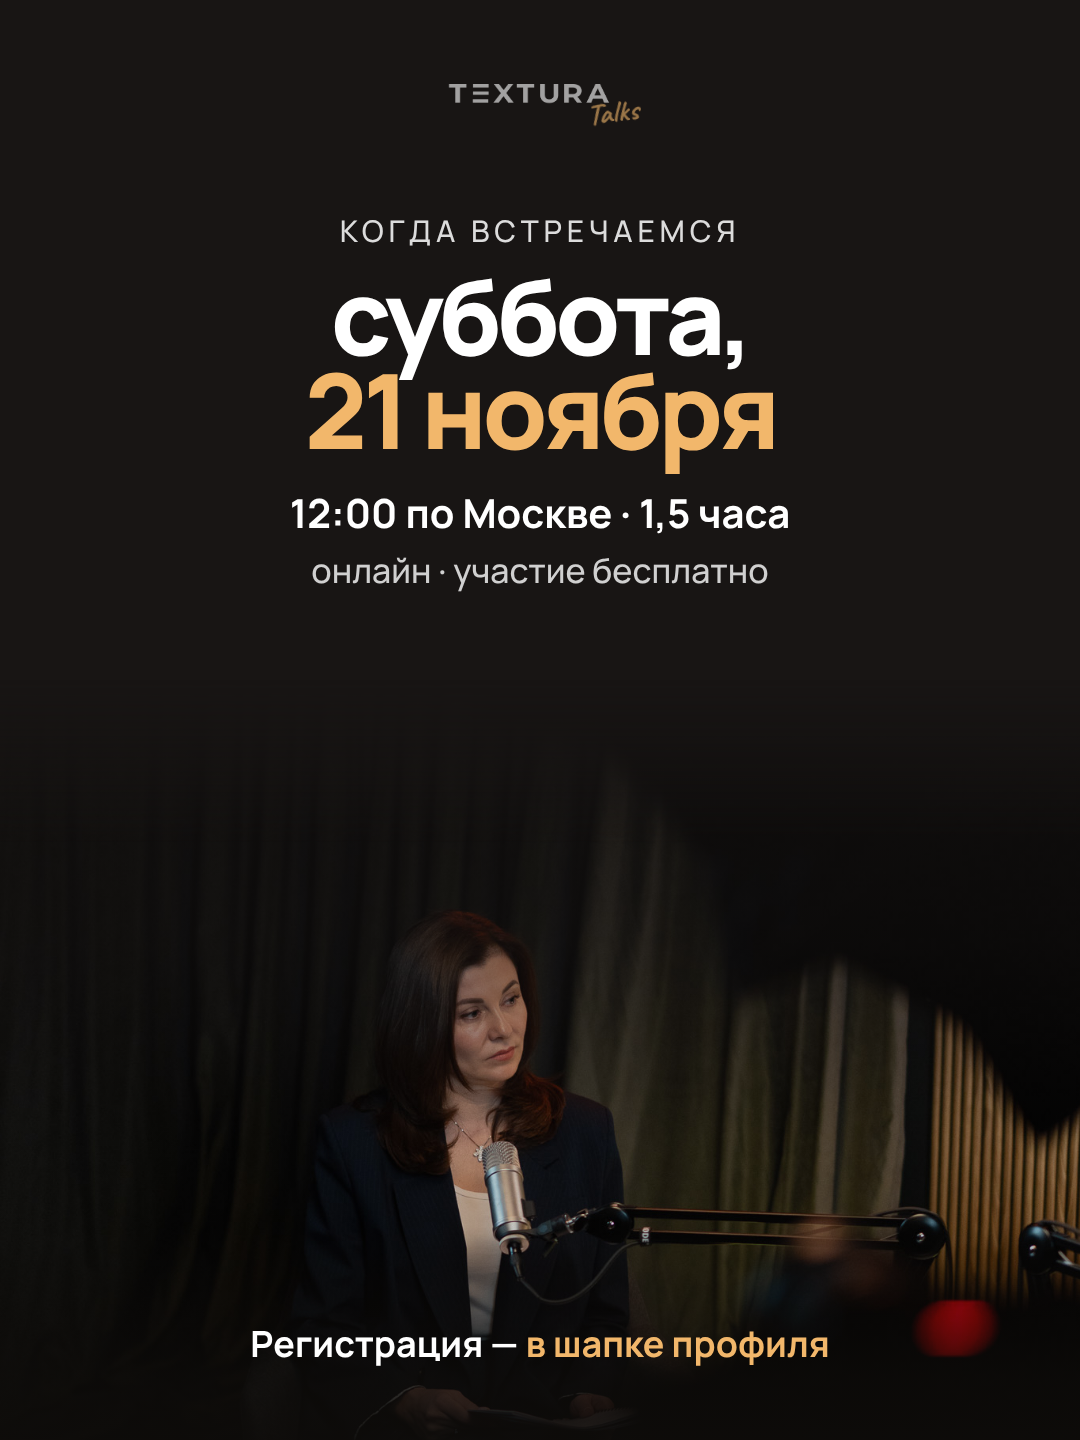
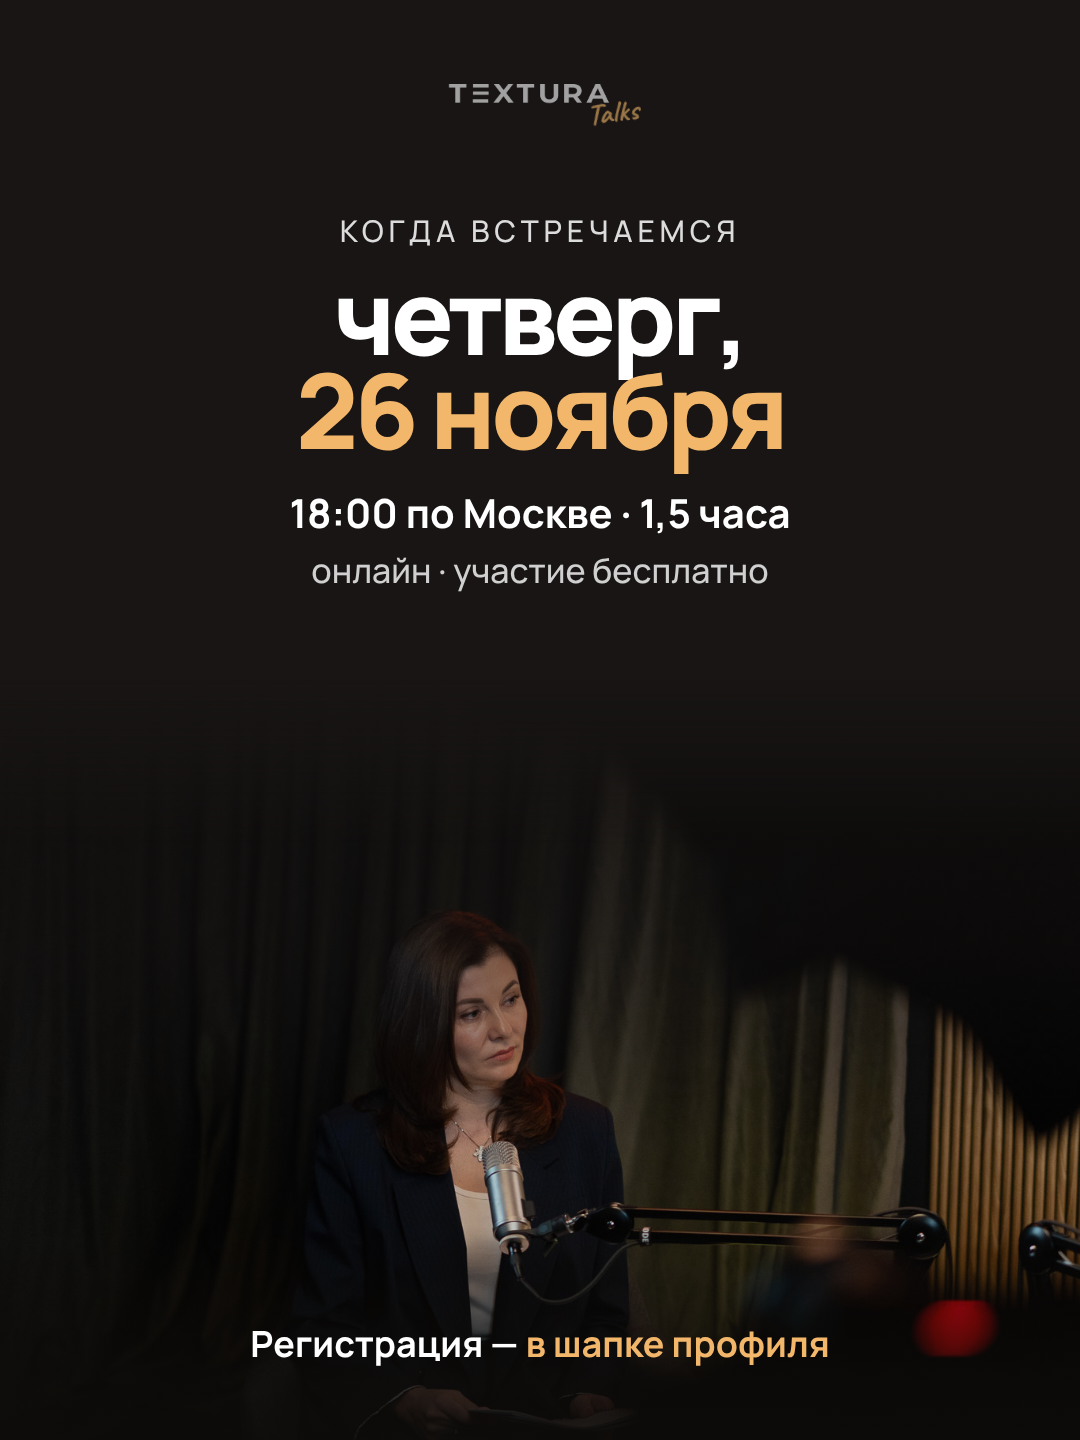
Workshop carousel: new date 26 Nov 18:00 MSK
Claude-Session: https://claude.ai/code/session_01EUhV7va23MNh7ydDpeuyX7

diff --git a/textura-carousel/workshop.html b/textura-carousel/workshop.html
@@ -160,7 +160,7 @@
   <div style="position:absolute; left:0; right:0; top:330px; height:1110px; z-index:2; background:url(photos/pol-sit.jpg) 50% 18%/1080px auto no-repeat; -webkit-mask-image:linear-gradient(180deg,transparent 0%,#000 22%); mask-image:linear-gradient(180deg,transparent 0%,#000 22%);"></div>
   <div style="position:absolute; left:0; right:0; bottom:0; height:560px; z-index:2; background:linear-gradient(180deg, rgba(14,12,10,0) 0%, rgba(14,12,10,.6) 45%, rgba(14,12,10,.95) 100%);"></div>
   <div style="position:absolute; left:0; right:0; bottom:170px; z-index:3; text-align:center; font-weight:800; font-size:72px; line-height:.98; letter-spacing:-.045em; text-shadow:0 2px 20px rgba(0,0,0,.5);">чтобы слушали<br><span style="color:var(--accent);">и&nbsp;покупали</span></div>
-  <div style="position:absolute; left:0; right:0; bottom:72px; z-index:3; text-align:center; font-weight:700; font-size:36px; color:#fff;">Суббота, 21 ноября · <span style="color:var(--accent);">12:00 МСК</span></div>
+  <div style="position:absolute; left:0; right:0; bottom:72px; z-index:3; text-align:center; font-weight:700; font-size:36px; color:#fff;">Четверг, 26 ноября · <span style="color:var(--accent);">18:00 МСК</span></div>
 </section>
 <section class="slide m"><div class="ph" style="top:600px; background-image:url(photos/w-listen.jpg); background-position:50% 45%;"></div><div class="mlogo"><div><img src="photos/textura-logo.png" alt="TEXTURA"><span>Talks</span></div></div>
 <div class="body"><div class="lbl">Знакомо?</div>
@@ -196,13 +196,13 @@
 <div class="stats"><div><b>500+</b><span>спикеров обучено<br>за&nbsp;5&nbsp;лет</span></div><div><b>30+</b><span>тренингов<br>и&nbsp;программ</span></div><div><b>3&nbsp;года</b><span>в&nbsp;прямом эфире<br>на&nbsp;ТВ</span></div></div></div></section>
 <section class="slide m"><div class="ph" style="top:680px; background-image:url(photos/w-notes.jpg); background-position:50% 40%;"></div><div class="mlogo"><div><img src="photos/textura-logo.png" alt="TEXTURA"><span>Talks</span></div></div>
 <div class="body"><div class="lbl">Когда встречаемся</div>
-<div class="h" style="font-size:104px;">суббота,<br><span class="g">21&nbsp;ноября</span></div>
-<div class="t" style="font-size:40px; color:#fff; font-weight:700;">12:00 по&nbsp;Москве · 1,5&nbsp;часа</div>
+<div class="h" style="font-size:104px;">четверг,<br><span class="g">26&nbsp;ноября</span></div>
+<div class="t" style="font-size:40px; color:#fff; font-weight:700;">18:00 по&nbsp;Москве · 1,5&nbsp;часа</div>
 <div class="t" style="margin-top:8px;">онлайн · участие бесплатно</div></div>
 <div class="foot">Регистрация — <span class="g">в&nbsp;шапке профиля</span></div></section>
 <section class="slide m"><div class="ph" style="top:640px; background-image:url(photos/w-laugh.jpg); background-position:50% 45%;"></div><div class="mlogo"><div><img src="photos/textura-logo.png" alt="TEXTURA"><span>Talks</span></div></div>
 <div class="body"><div class="t" style="margin-top:0; font-size:38px; color:#fff;">Если после вашего рассказа о&nbsp;себе люди вежливо кивают, но&nbsp;не&nbsp;задают вопросов и&nbsp;не&nbsp;покупают —</div>
 <div class="h" style="font-size:124px; margin-top:34px;">приходите.</div>
 <div class="h" style="font-size:66px; margin-top:24px;"><span class="g">будем это менять</span></div></div>
-<div class="foot">Суббота, 21 ноября · <span class="g">12:00 МСК</span><br><span style="font-weight:500; font-size:30px; color:rgba(255,255,255,.8);">Регистрация — в&nbsp;шапке профиля</span></div></section>
+<div class="foot">Четверг, 26 ноября · <span class="g">18:00 МСК</span><br><span style="font-weight:500; font-size:30px; color:rgba(255,255,255,.8);">Регистрация — в&nbsp;шапке профиля</span></div></section>
 </body></html>
